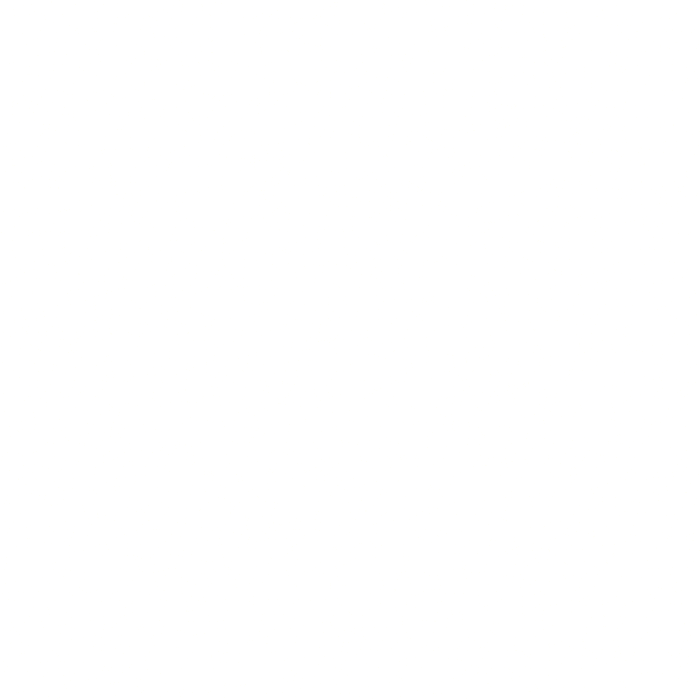
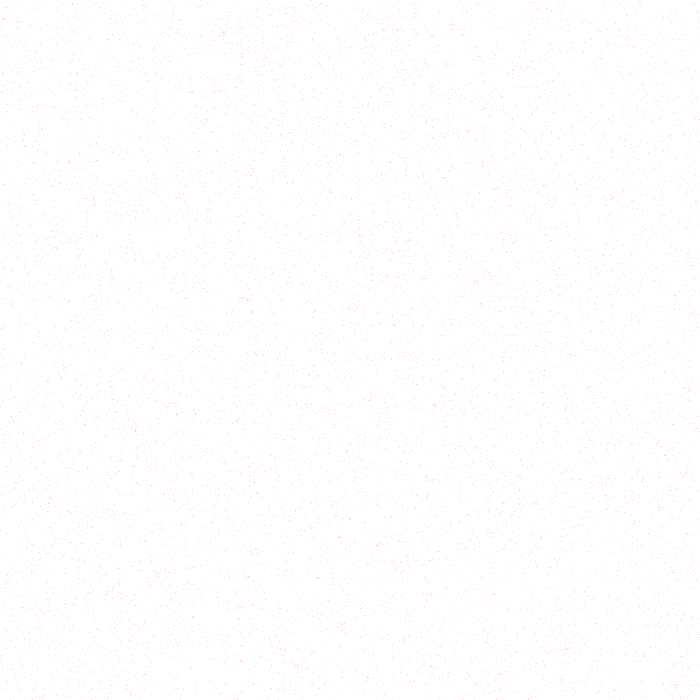
changed grain variant

diff --git a/src/components/GrainyTexture.jsx b/src/components/GrainyTexture.jsx
@@ -4,7 +4,7 @@ function GrainyTexture() {
   return (
     <div
       className="grainy-texture"
-      style={{ backgroundImage: "url('./assets/grain3.png')" }}
+      style={{ backgroundImage: "url('./assets/grain2.png')" }}
     ></div>
   );
 }
